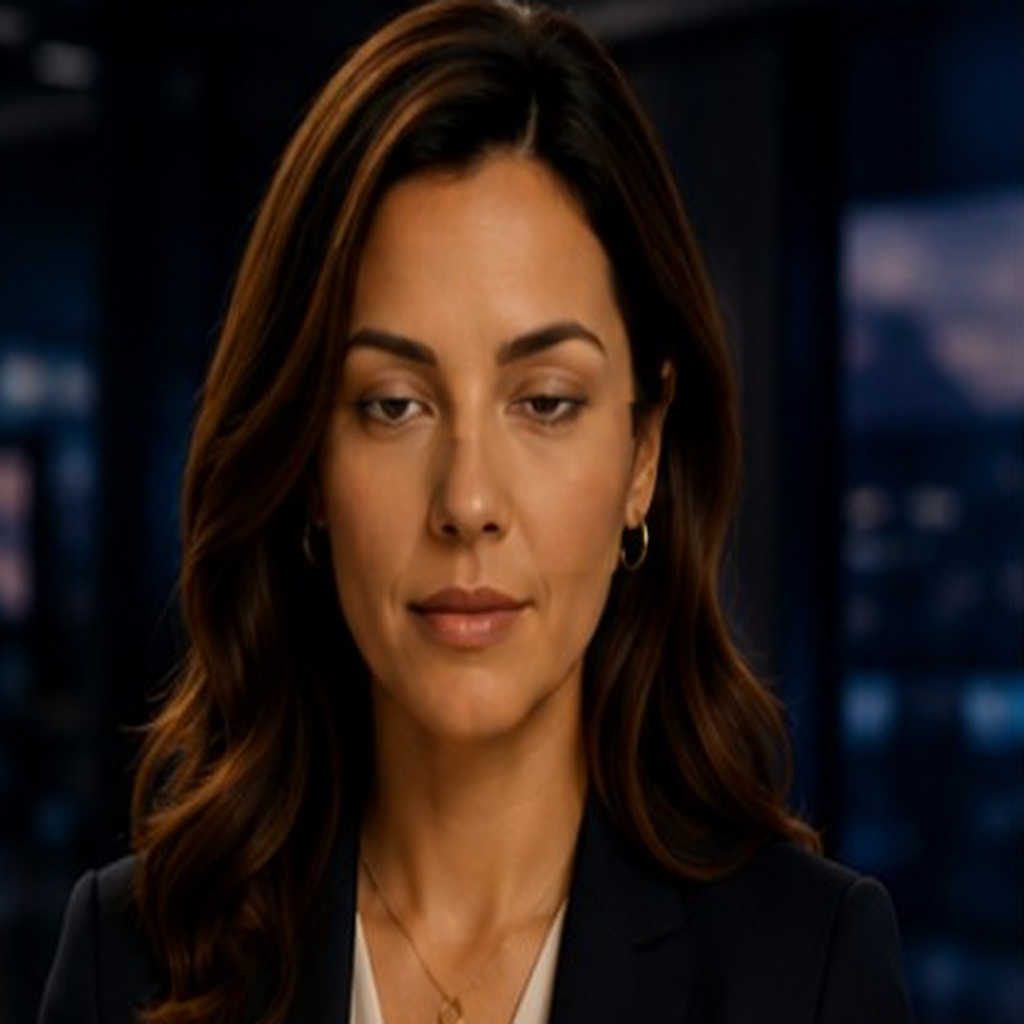
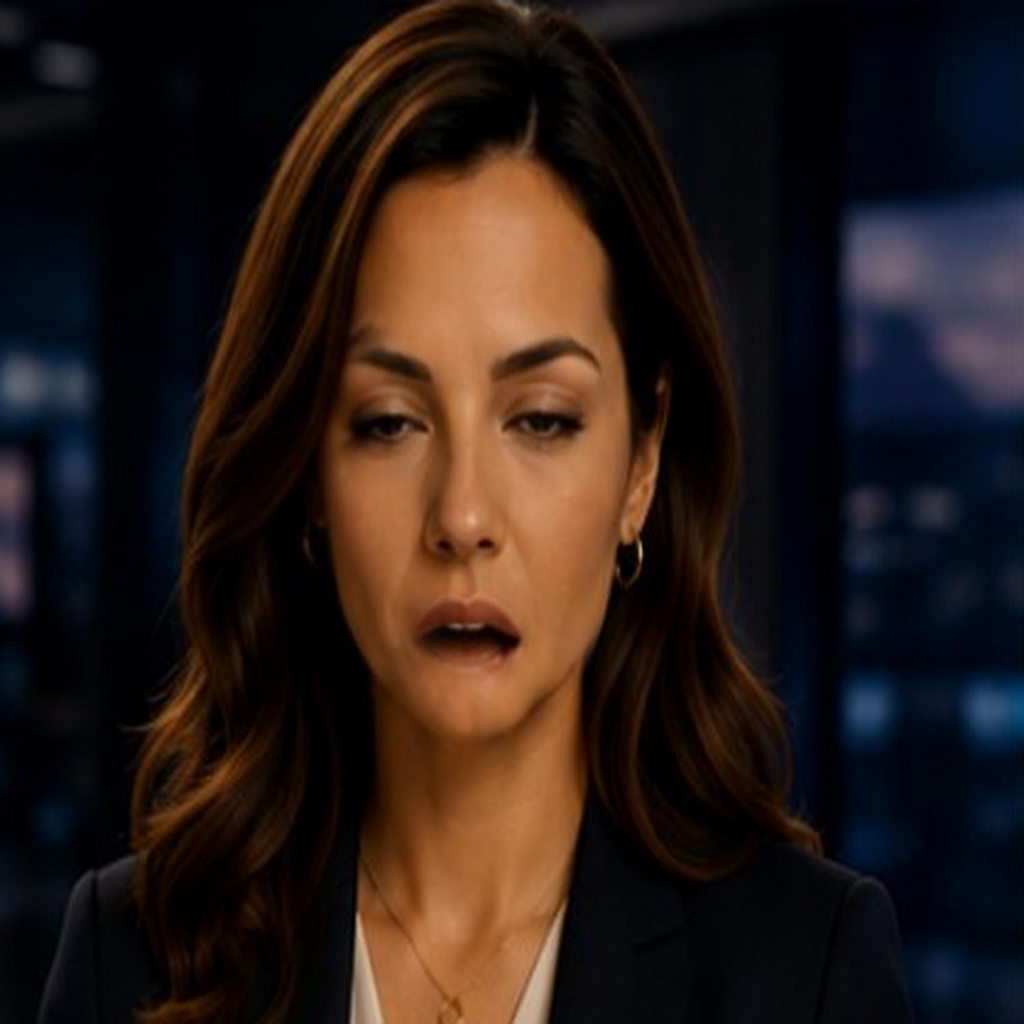
fix: Annas mun-/blinkanimation — v3-bildset med verklig variation (#1314)
v1 (PR #1313) löste huvud-hoppet men munnen var i praktiken statisk —
small/medium/large var visuellt identiska med basbilden, och den
saknade dedikerade m1-blinkvarianter helt.

Nytt v3-bildset: samma pixelstabila metod (allt byggt från en delad
masterduk, bara mun-/ögonmasken ändras) men den här gången med verkligt
verifierad variation — jag mätte pixel-diff oberoende av leverantörens
egen validation.json:

- Utanför masken: 0.00 mean diff / 0 max på alla 11 frames mot mastern
  (bakgrund, hår, axlar helt oförändrade — huvudet hoppar inte).
- Innanför masken: monotont ökande diff m0→m1→m2→m3 för både
  mun-öppning och ögonstängning, konsistent över alla tre
  ögontillstånd (open/half/closed).

Alla 12 filer ingår nu, inklusive de m1-half/m1-closed som saknades i
v1 — koden återgår därför från m0-substitutionen (införd som
nödlösning i #1313) till att referera de riktiga m1-filerna i
AgentOverlay.js och kanal/page.js.

Peter/Nationalekonom rörs inte — hans nuvarande frames var aldrig
trasiga, och den nya kandidat-bildserien för honom hade dels fel
ansikte/karaktär, dels dubblettbilder (samma källfil återanvänd för
alla fyra half-blink-nivåer, verifierat med samma pixel-diff-metod).

Claude-Session: https://claude.ai/code/session_01UUveYuix29MTpqkVUgwLps

Changed region(s): [[0.3125, 0.2812, 0.6562, 0.5938], [0.375, 0.4688, 0.5312, 0.6562], [0.5625, 0.5938, 0.5938, 0.6562]]

diff --git a/app/kanal/page.js b/app/kanal/page.js
@@ -207,12 +207,8 @@ function WaveformBar({ isSpeaking, isThinking }) {
 // ── AnchorImage ───────────────────────────────────────────────────────────────
 // Open-eye mouth frames: anna.png (m0), anna-small.png (m1), anna-medium.png (m2), anna-large.png (m3)
 const MOUTH_OPEN   = ["anna.png", "anna-small.png", "anna-medium.png", "anna-large.png"];
-// Index 1 (m1) återanvänder m0-frames för blink-varianterna — det pixelstabila
-// bildsetet (sep 2026) täcker bara m0/m2/m3 för half/closed, så en referens till
-// de gamla anna-m1-*.png (annan upplösning/beskärning) hade återinfört exakt
-// det "hoppande huvudet"-problemet bildsetet skulle lösa.
-const MOUTH_HALF   = ["anna-m0-half.png", "anna-m0-half.png", "anna-m2-half.png", "anna-m3-half.png"];
-const MOUTH_CLOSED = ["anna-m0-closed.png", "anna-m0-closed.png", "anna-m2-closed.png", "anna-m3-closed.png"];
+const MOUTH_HALF   = ["anna-m0-half.png", "anna-m1-half.png", "anna-m2-half.png", "anna-m3-half.png"];
+const MOUTH_CLOSED = ["anna-m0-closed.png", "anna-m1-closed.png", "anna-m2-closed.png", "anna-m3-closed.png"];
 
 function AnchorImage({ blinkState, isSpeaking }) {
   const [mouthIdx, setMouthIdx] = useState(1);

diff --git a/app/nyhetskallor/AgentOverlay.js b/app/nyhetskallor/AgentOverlay.js
@@ -16,12 +16,8 @@ export const AGENTER = {
     rate: 1.0,
     hasBlink: true,
     mouthOpen:   ["anna.png", "anna-small.png", "anna-medium.png", "anna-large.png"],
-    // Index 1 (m1) återanvänder m0-frames för blink-varianterna — det
-    // pixelstabila bildsetet (sep 2026) täcker bara m0/m2/m3 för half/closed,
-    // så att referera de gamla anna-m1-*.png (annan upplösning/beskärning)
-    // hade återinfört exakt det "hoppande huvudet"-problemet bildsetet skulle lösa.
-    mouthHalf:   ["anna-m0-half.png", "anna-m0-half.png", "anna-m2-half.png", "anna-m3-half.png"],
-    mouthClosed: ["anna-m0-closed.png", "anna-m0-closed.png", "anna-m2-closed.png", "anna-m3-closed.png"],
+    mouthHalf:   ["anna-m0-half.png", "anna-m1-half.png", "anna-m2-half.png", "anna-m3-half.png"],
+    mouthClosed: ["anna-m0-closed.png", "anna-m1-closed.png", "anna-m2-closed.png", "anna-m3-closed.png"],
     idleOpen: "anna.png", idleHalf: "anna-m0-half.png", idleClosed: "anna-m0-closed.png",
   },
   Nationalekonom: {

diff --git a/ai-bus/context.md b/ai-bus/context.md
@@ -62,17 +62,19 @@ Stack: Next.js App Router, Supabase, Groq (primär AI), Gemini Flash (fallback),
 
 ## Bildmappning för Anna (`/public/avatarer/podd/`)
 
-Sedan sep 2026: pixelstabilt bildset (ChatGPT-genererat) där alla frames delar
-exakt samma masterduk — bara mun-/ögonregionen skiljer sig, huvudet hoppar
-inte längre mellan frames. Setet saknar dedikerade m1-varianter för
-half/closed, så koden (`AgentOverlay.js`, `kanal/page.js`) återanvänder
-m0-half/m0-closed på index 1 istället — de gamla `anna-m1-half.png`/
-`anna-m1-closed.png` (annan upplösning, ej pixelstabila) är borttagna.
+Sedan sep 2026 (v3): pixelstabilt bildset där alla 12 frames delar exakt
+samma masterduk — bara den lokala mun-/ögonmasken skiljer sig, huvudet
+hoppar inte mellan frames (0 ändrade pixlar utanför masken, verifierat
+oberoende med pixel-diff). Till skillnad från v1 (aug/sep 2026, samma
+pixelstabila metod men i praktiken näst intill statisk mun — small/medium/
+large var visuellt identiska) har v3 en verifierat tydlig, monotont ökande
+munöppning m0→m1→m2→m3 och genuint slutna ögonlock i closed-frames. Alla
+12 filer finns nu, inklusive m1-half/m1-closed som saknades i v1.
 
 | Position | Öppna ögon | Halvöppna ögon | Stängda ögon |
 |---|---|---|---|
 | m0 stängd mun | `anna.png` | `anna-m0-half.png` | `anna-m0-closed.png` |
-| m1 liten mun | `anna-small.png` | `anna-m0-half.png` (delad m0) | `anna-m0-closed.png` (delad m0) |
+| m1 liten mun | `anna-small.png` | `anna-m1-half.png` | `anna-m1-closed.png` |
 | m2 medium mun | `anna-medium.png` | `anna-m2-half.png` | `anna-m2-closed.png` |
 | m3 stor mun | `anna-large.png` | `anna-m3-half.png` | `anna-m3-closed.png` |
 
